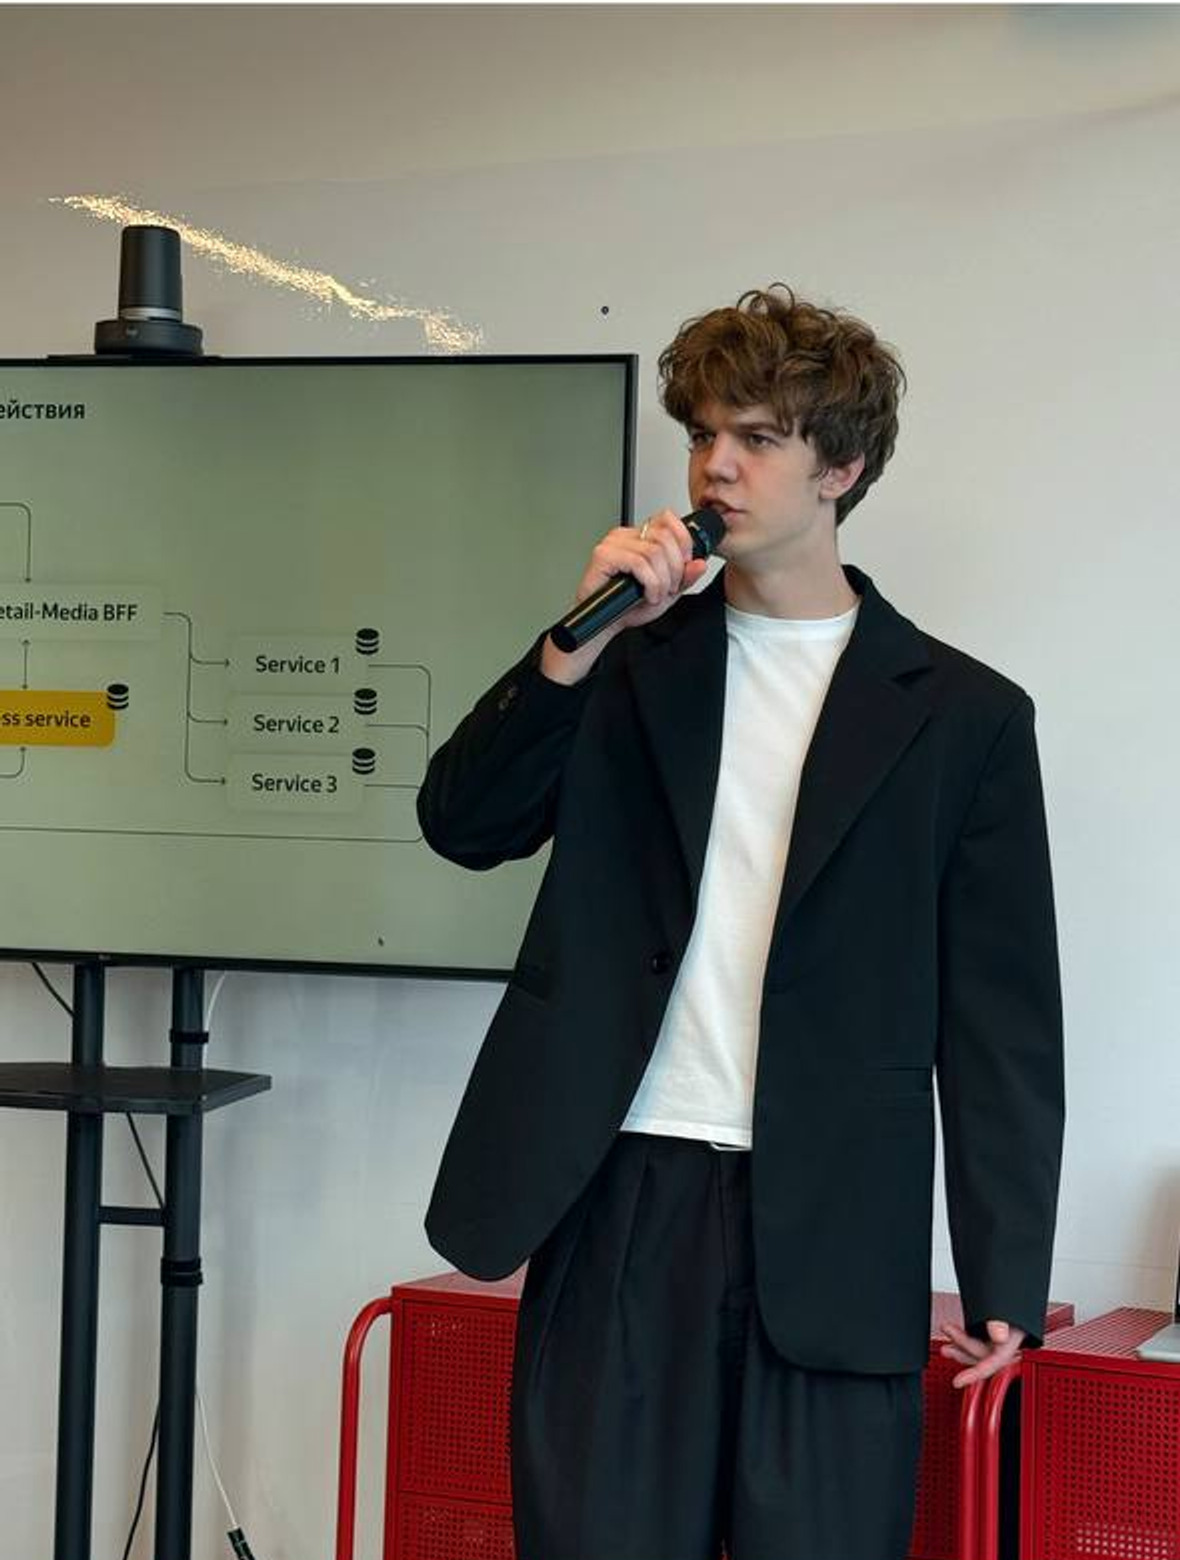
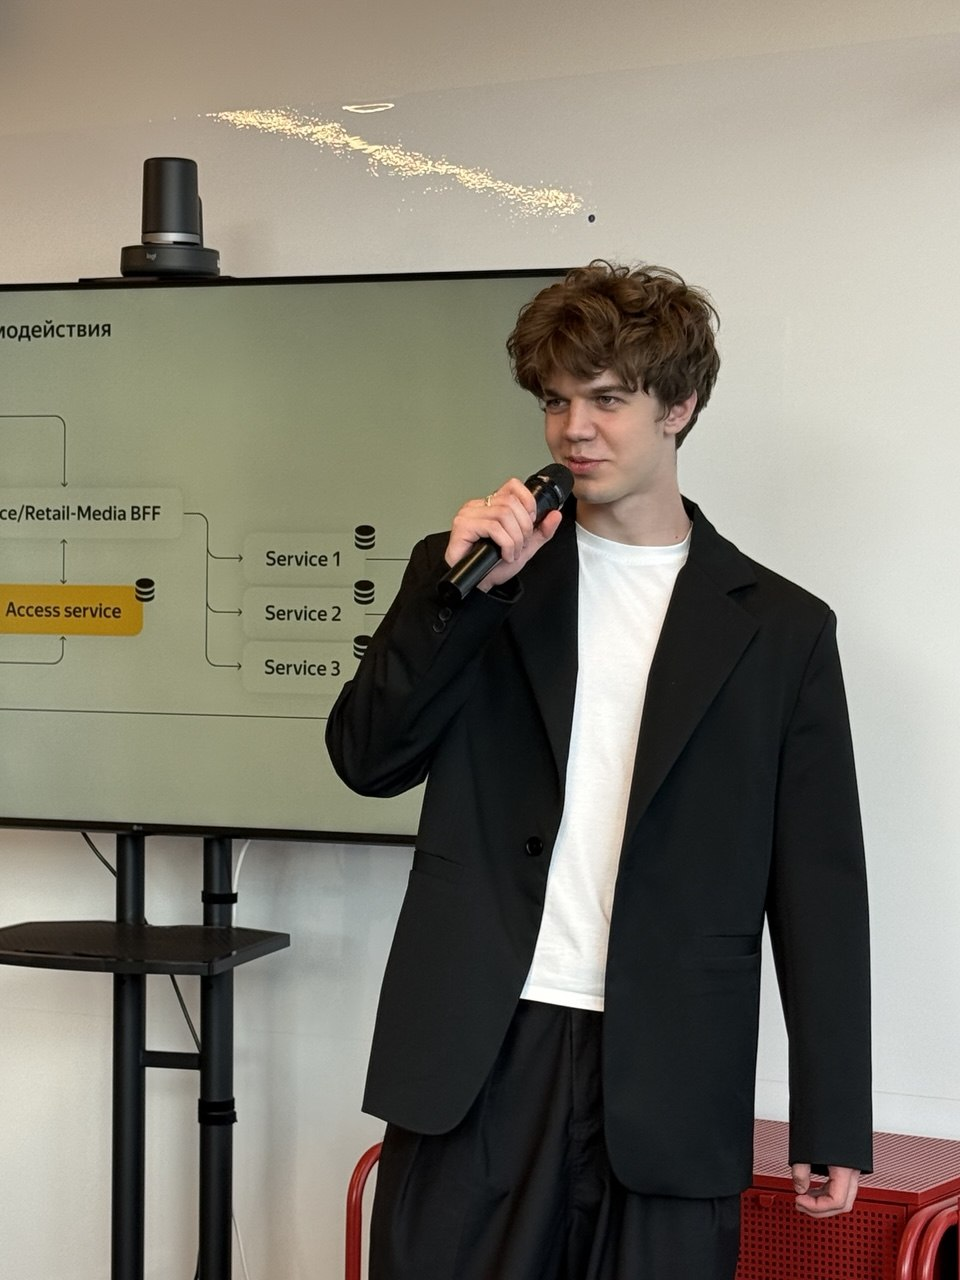
Replace mentor photo with original image

diff --git a/src/styles/mentor.css b/src/styles/mentor.css
@@ -76,7 +76,7 @@
   @media (max-width: 780px) {
     .mentor__grid { row-gap: var(--space-6); }
     .mentor__text { gap: var(--space-4); }
-    .mentor__figure img { aspect-ratio: 4 / 3; }
+    .mentor__figure img { aspect-ratio: 4 / 3; object-position: center 38%; }
     .mentor__plate { padding: 0.2rem 0.8rem 0.35rem; }
     .mentor__plate .doc__row { padding-block: 0.4rem; }
   }

diff --git a/README.md b/README.md
@@ -77,5 +77,4 @@ tools/                   служебные скрипты сборки ассе
 ## Что осталось сделать
 
 - В `astro.config.mjs` стоит временный домен в поле `site`. От него зависят canonical и `og:url`, заменить на боевой.
-- Фотография ментора вырезана из скриншота галереи и ограничена по разрешению исходником 590x780. Нормальная съёмка заметно улучшит секцию.
 - Цифры `USD 8 500` и `4 месяца` в карточке оффера это заявления заказчика. Скриншот оффера или отзывы учеников сильно усилили бы блок доверия.
